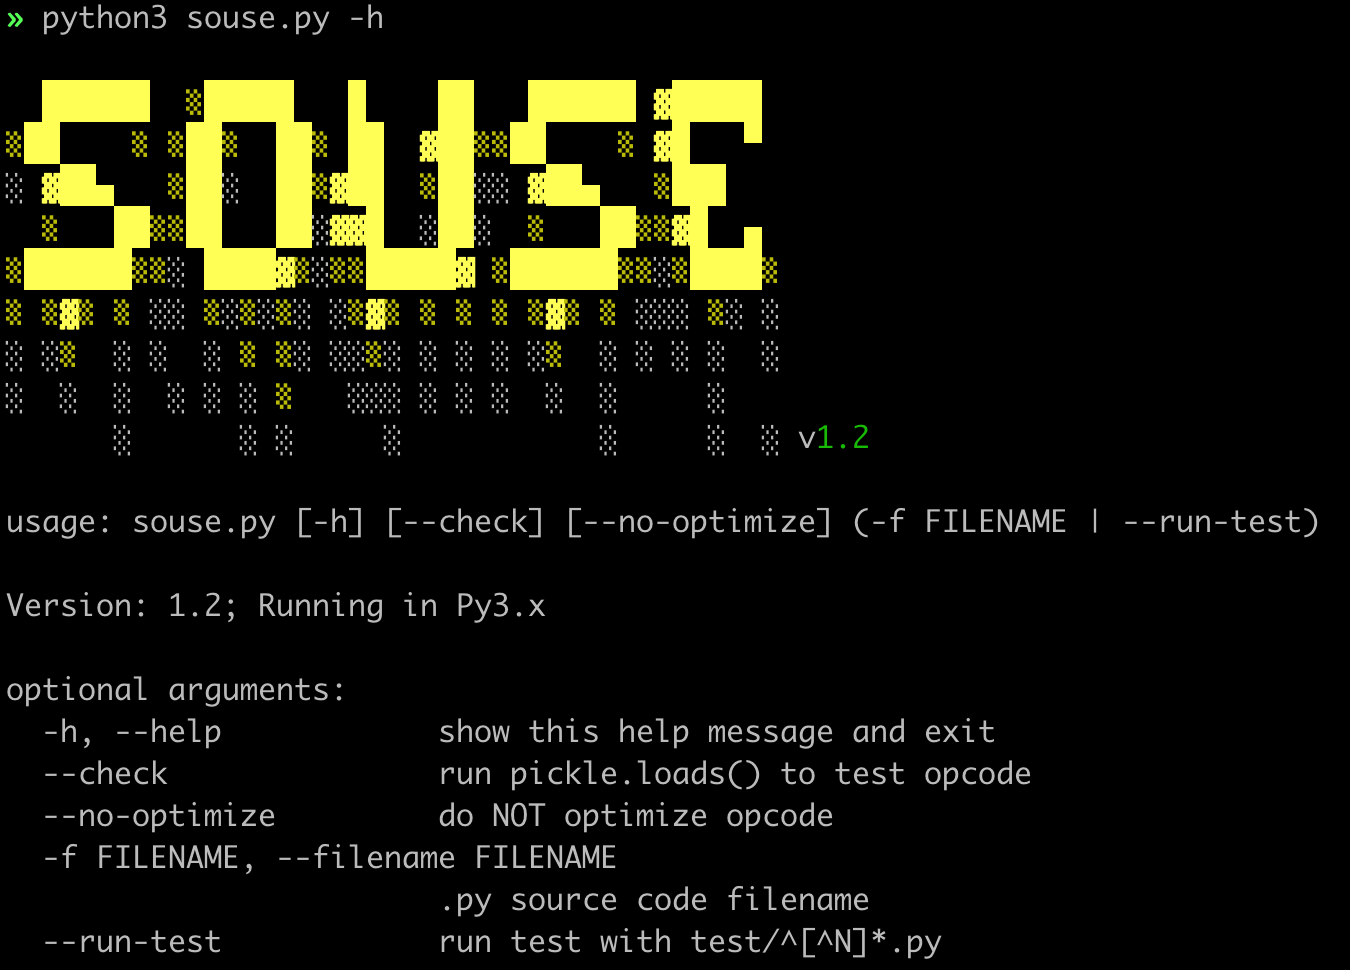
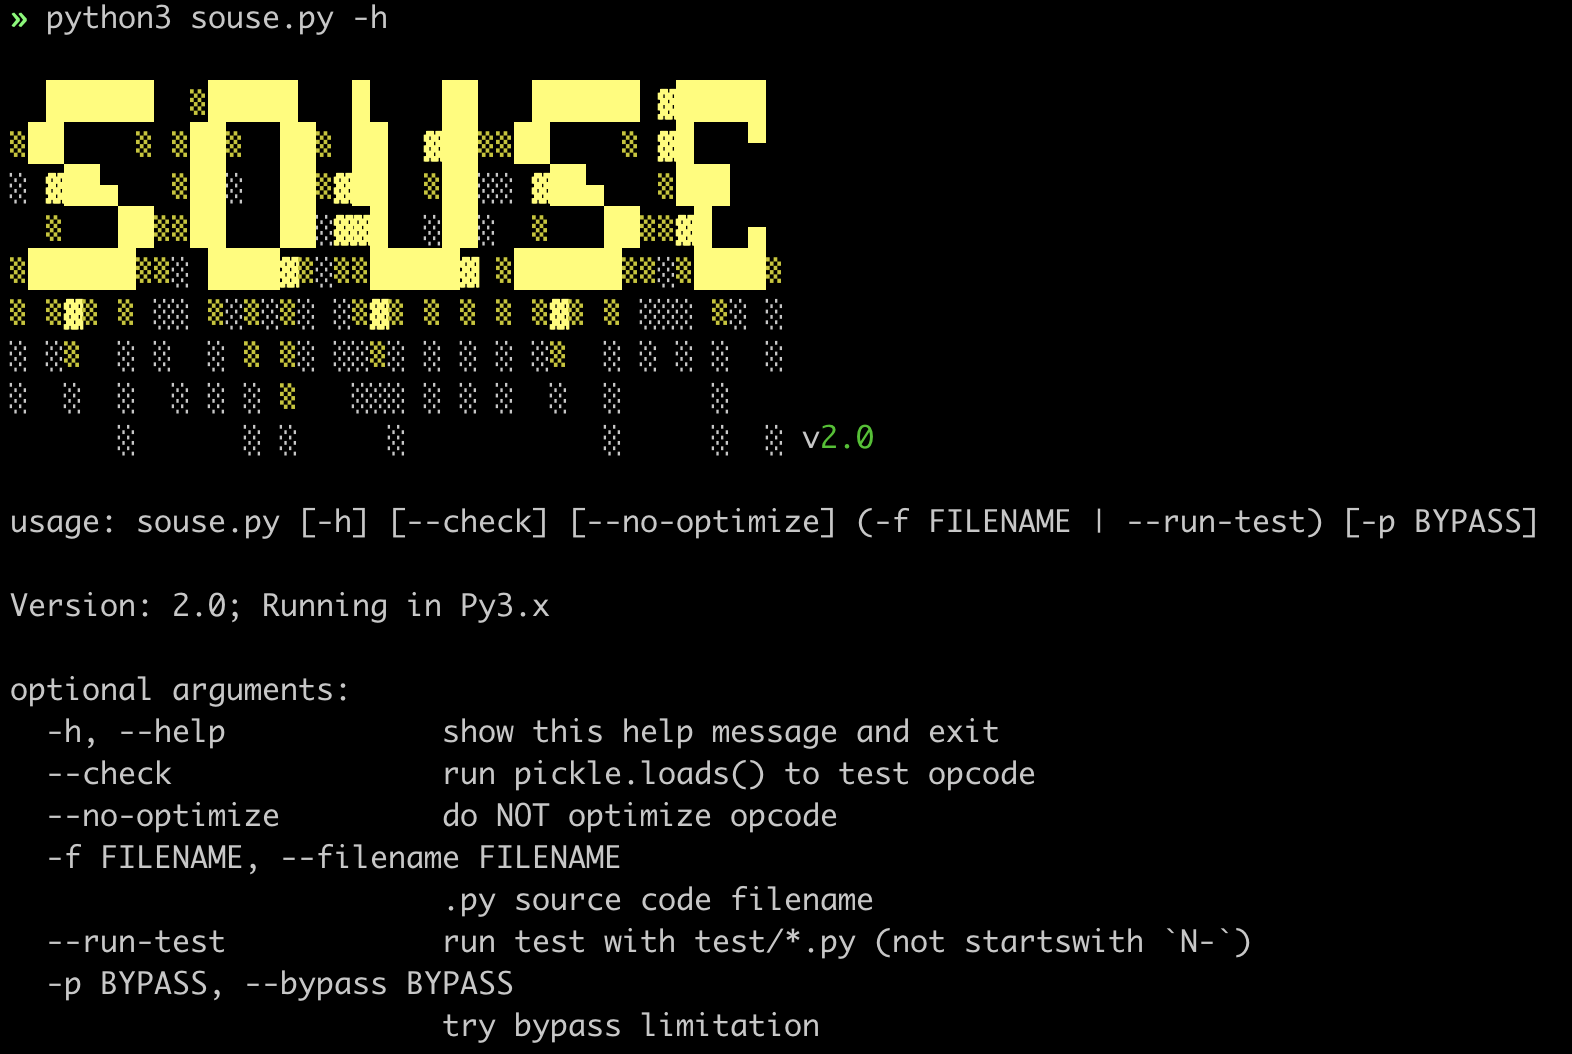
新增 bypass（实验功能）

diff --git a/souse.py b/souse.py
@@ -1,6 +1,8 @@
 import os
 import ast
+import json
 import pickle
+import struct
 import argparse
 import pickletools
 
@@ -20,20 +22,94 @@ def put_color(string, color, bold=True):
     return f'{Style.BRIGHT if bold else ""}{COLOR}{str(string)}{Style.RESET_ALL}'
 
 
+def format_opcode(code, value):
+    def _pure(value):
+        return repr(value.strip())[2:-1] if isinstance(value, bytes) else value.strip()
+
+    def _format(code, value='', return_value=False):
+        if code == b"S":
+            return f"S'{value}'\n".encode('utf-8')
+
+        elif code == b"J":
+            # limit: -2147483648 <= value <= 2147483647
+            value = struct.pack('i0i', value)
+
+        if not isinstance(value, bytes):
+            value = str(value).encode('utf-8')
+            if value:
+                value += b"\n"
+
+        if return_value:
+            return _pure(value), code + value
+
+        return code + value
+
+    code = code if isinstance(code, list) else [code]
+    if not bypass:
+        # 不需要 bypass
+        return _format(code[0], value)
+
+    pure_code = [_pure(i) for i in code]
+
+    related_rules = {
+        k: v for k, v in firewall_rules.items()
+        if k in pure_code and v in [str(value), "*"]
+    }
+    if not related_rules:
+        # 不需要 bypass
+        return _format(code[0], value)
+
+    if rule_type == 'black':
+        for i, v in enumerate(pure_code):
+            for _c, _v in related_rules.items():
+                if _v == "*":
+                    if _c != v:
+                        # 直接换掉
+                        print(
+                            f"[*] choice {put_color(v, 'blue')} "
+                            # f"instead of {put_color(pure_code[0], 'white')} "
+                            f"to bypass rule: {put_color({_c: _v}, 'white')}"
+                        )
+                        return _format(code[i], value)
+
+                elif _v == str(value):
+                    # 替换 value
+                    try:
+                        new_v, bypassed = _format(code[i], value, return_value=True)
+                    except struct.error as e:
+                        pass
+
+                    else:
+                        if _v != new_v:
+                            print(
+                                f"[*] choice {put_color(v, 'blue')} "
+                                # f"instead of {put_color(pure_code[0], 'white')} "
+                                f"to bypass rule: {put_color({_c: _v}, 'white')}"
+                            )
+                            return bypassed
+
+        # 均失败
+        raise RuntimeError(
+            f"can NOT bypass: {put_color(related_rules, 'white')}, "
+            f"must use opcode in {put_color(pure_code, 'white')}"
+        )
+
+
 def value_type_map(value):
     vmap = {
-        int: f'I',
-        float: f'F',
-        str: f'V',
+        int: [b'I', b'J'],
+        float: b'F',
+        str: [b'V', b'S'],
     }
     cmap = {
-        None: 'N',
-        True: 'I01\n',
-        False: 'I00\n',
+        None: b'N',
+        True: [b'I01\n', b'\x88'],
+        False: [b'I00\n', b'\x89'],
     }
     for _type in vmap:
         if type(value) is _type:
-            return f'{vmap[_type]}{value}\n'
+            v = vmap[_type]
+            return format_opcode(v, value)
 
     v = cmap.get(value, None)
     if v is None:
@@ -43,7 +119,7 @@ def value_type_map(value):
             f"type is {put_color(type(value), 'cyan')}"
         )
     else:
-        return v
+        return format_opcode(v, "")
 
 
 class Visitor(ast.NodeVisitor):
@@ -92,7 +168,7 @@ class Visitor(ast.NodeVisitor):
 
     def _flat(self, node):
         if isinstance(node, ast.Constant):
-            return value_type_map(node.value).encode('utf-8')
+            return value_type_map(node.value)
 
         elif isinstance(node, ast.Set):
             # PVM Protocol 4
@@ -303,7 +379,7 @@ class Visitor(ast.NodeVisitor):
 
 
 Init()
-VERSION = '1.2'
+VERSION = '2.0'
 
 
 print(
@@ -341,6 +417,10 @@ group.add_argument(
     "--run-test", action="store_true",
     help="run test with test/*.py (not startswith `N-`)"
 )
+parser.add_argument(
+    "-p", "--bypass", default=False,
+    help="try bypass limitation"
+)
 
 args = parser.parse_args()
 
@@ -350,10 +430,10 @@ run_test = args.run_test
 
 if run_test:
     # 代码质量测试模式下
-    # 不优化 opcode
-    # 不执行 opcode
+    # 不优化 opcode、不执行 opcode、不 bypass
     need_optimize = False
     need_check = False
+    bypass = False
     directory = "./test/"
     filenames = sorted([
         directory+i for i in list(os.walk(directory))[0][2]
@@ -362,8 +442,29 @@ if run_test:
 else:
     filenames = [args.filename]
 
-print(f'[*] need check: {put_color(need_check, ["gray", "green"][int(need_check)])}')
+print(f'[*] need check:    {put_color(need_check, ["gray", "green"][int(need_check)])}')
 print(f'[*] need optimize: {put_color(need_optimize, ["gray", "green"][int(need_optimize)])}')
+
+firewall_rules = {}
+bypass = False
+if args.bypass:
+    try:
+        firewalls = json.load(open(args.bypass))
+    except Exception as e:
+        print("\n[!]", put_color(f"{args.bypass} has invalid bypass rules: {e}\n", 'yellow'))
+    else:
+        rule_type = firewalls.get("type", None)
+        if rule_type not in ["black", "white"]:
+            print("\n[!]", put_color(f'{args.bypass} must contains a json key: `type` in `["black", "white"]`\n', "yellow"))
+        else:
+            firewall_rules = firewalls.get('rules', {})
+
+            if not firewall_rules:
+                print("\n[!]", put_color(f"{args.bypass} has no rules\n", 'yellow'))
+            else:
+                bypass = True
+
+print(f'[*] try bypass:    {put_color(args.bypass, ["gray", "cyan"][int(bypass)])}\n')
 
 for filename in filenames:
     def tip(c): return f'[+] input: {put_color(filename, c)}'
